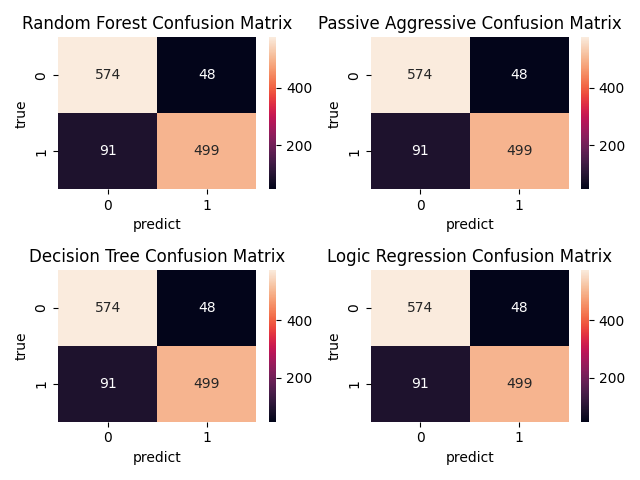
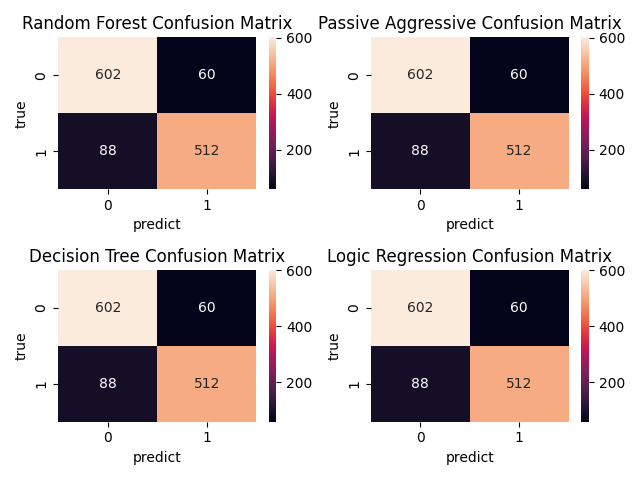
commit

diff --git a/Project3_part2.py b/Project3_part2.py
@@ -1,11 +1,6 @@
 import re
-
-import nltk
-import numpy as np
 import pandas as pd
 import seaborn as sn
-
-import gensim
 from nltk.corpus import stopwords
 from matplotlib import pyplot as plt, gridspec
 from sklearn.model_selection import train_test_split
@@ -17,8 +12,6 @@ from wordcloud import WordCloud
 from sklearn.linear_model import LogisticRegression
 from sklearn.tree import DecisionTreeClassifier
 from sklearn.ensemble import RandomForestClassifier
-from keras.preprocessing.text import Tokenizer
-from tensorflow.keras.preprocessing.sequence import pad_sequences
 
 
 # 数据清洗
@@ -27,16 +20,16 @@ def data_clean(df):
     # 删除空列
     df = df.dropna()
     # 根据text列进行去重
-    df.drop_duplicates(subset=['text'], keep='first', inplace=True)
+    df.drop_duplicates(subset=['original'], keep='first', inplace=True)
     # 去掉标点
     p = re.compile(r'[^\w\s]+')
-    df['text'] = [p.sub('', x) for x in df['text'].tolist()]
+    df['original'] = [p.sub('', x) for x in df['original'].tolist()]
     # 去掉数字
     p = re.compile(r'[^\D]+')
-    df['text'] = [p.sub('', x) for x in df['text'].tolist()]
+    df['original'] = [p.sub('', x) for x in df['original'].tolist()]
     # 去除停用词
     stop_word = stopwords.words('english')
-    df['text'] = df['text'].apply(lambda x: ' '.join([word for word in x.split() if word not in (stop_word)]))
+    df['original'] = df['original'].apply(lambda x: ' '.join([word for word in x.split() if word not in (stop_word)]))
     print('===> Data cleaning finished!')
     return df
 
@@ -173,36 +166,11 @@ def draw_accuracy_compare(accuracy):
     plt.savefig('accuracy_compare.png')
 
 
-def deepl(df):
-    stop_words = stopwords.words('english')
-    stop_words.extend(['from', 'subject', 're', 'edu', 'use'])
-
-    def preprocess(text):
-        result = []
-        for token in gensim.utils.simple_preprocess(text):
-            if token not in gensim.parsing.preprocessing.STOPWORDS and len(token) > 3 and token not in stop_words:
-                result.append(token)
-        return result
-
-    df['clean'] = df['text'].apply(preprocess)
-    # Obtaining The Total Words Present In The Dataset
-    list_of_words = []
-    for i in df.clean:
-        for j in i:
-            list_of_words.append(j)
-    total_words = len(list(set(list_of_words)))
-    df['clean_joined'] = df['clean'].apply(lambda x: " ".join(x))
-    x_train, x_test, y_train, y_test = train_test_split(df.clean_joined, df.label, test_size=0.2)
-    tokenizer = Tokenizer(num_words=total_words)
-    tokenizer.fit_on_texts(x_train)
-    train_sequences = tokenizer.texts_to_sequences(x_train)
-    test_sequences = tokenizer.texts_to_sequences(x_test)
-    padded_train = pad_sequences(train_sequences, maxlen=40, padding='post', truncating='post')
-    padded_test = pad_sequences(test_sequences, maxlen=40, truncating='post')
-
 def main():
     # 数据读取
     df = pd.read_csv('Project_Data/news.csv')
+    # 增加title也作为输入特征
+    df['original'] = df['title'] + ' ' + df['text']
     # 数据清洗
     df = data_clean(df)
     # 取label列
@@ -219,8 +187,6 @@ def main():
     cm3, accuracy3 = decision_tree_classify(x_train, y_train, x_test, y_test)
     # LogicRegressionClassifier
     cm4, accuracy4 = logic_regression_classify(x_train, y_train, x_test, y_test)
-
-    deepl(df)
     # 画出混淆矩阵
     draw_confusion_matrix(cm1, cm2, cm3, cm4)
     # 画出accuracy对比
